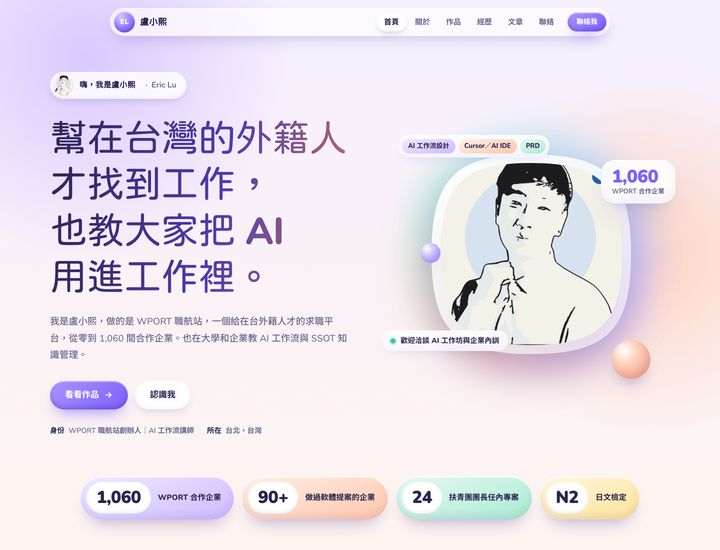
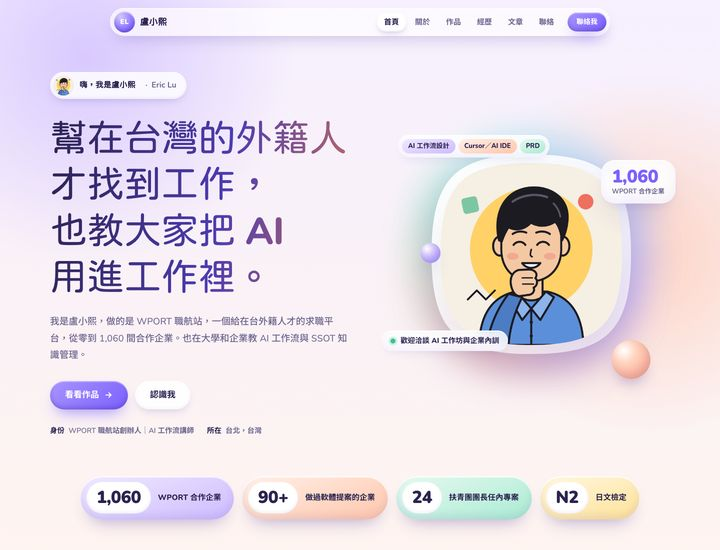
astro 範本：10 種風格拉開差異（瑞士海報、像素冒險、液態玻璃、復古桌面、藍染雜誌、紙本履歷），更新預覽與 README

Changed region(s): [[0.6111, 0.2782, 0.825, 0.6491], [0.0611, 0.1236, 0.1222, 0.1855], [0.825, 0.3091, 0.8556, 0.34]]

diff --git a/templates/website/astro/README.md b/templates/website/astro/README.md
@@ -14,10 +14,10 @@
 
 | | | |
 |---|---|---|
-| ![](previews/01-editorial.jpg)<br>**01-editorial** 瑞士編輯：超大字、網格、紅色編號 | ![](previews/02-bento.jpg)<br>**02-bento** Apple 產品頁：筆電外框、捲動放大 | ![](previews/03-minimal.jpg)<br>**03-minimal** 極簡索引：大字作品索引、滑過浮出截圖 |
-| ![](previews/04-aurora.jpg)<br>**04-aurora** 極光暗色：流動極光、毛玻璃 | ![](previews/05-brutal.jpg)<br>**05-brutal** 新粗獷：色塊、可拖的貼紙 | ![](previews/06-terminal.jpg)<br>**06-terminal** 開發者終端：⌘K 指令面板、打字開場 |
-| ![](previews/07-magazine.jpg)<br>**07-magazine** 文藝雜誌：直排標題、印章、圖說 | ![](previews/08-studio.jpg)<br>**08-studio** 作品集工作室：左側欄、大圖展開 | ![](previews/09-soft.jpg)<br>**09-soft** 柔和黏土：粉嫩、Q 彈互動 |
-| ![](previews/10-cv.jpg)<br>**10-cv** 履歷 CV：單欄精排、可列印 |  |  |
+| ![](previews/01-editorial.jpg)<br>**01-editorial** 瑞士海報：滿版紅、黑白交替、超大字 | ![](previews/02-bento.jpg)<br>**02-bento** Apple 產品頁：白灰、筆電外框、捲動放大 | ![](previews/03-minimal.jpg)<br>**03-minimal** 像素冒險：深藍星空、角色卡、任務卡 |
+| ![](previews/04-aurora.jpg)<br>**04-aurora** 液態玻璃：繽紛漸層、毛玻璃面板 | ![](previews/05-brutal.jpg)<br>**05-brutal** 新粗獷：米底、色塊、可拖的貼紙 | ![](previews/06-terminal.jpg)<br>**06-terminal** 復古桌面：綠松石桌面、可拖的灰視窗 |
+| ![](previews/07-magazine.jpg)<br>**07-magazine** 藍染雜誌：深靛藍、直排、印章 | ![](previews/08-studio.jpg)<br>**08-studio** 作品集工作室：暖黑＋螢光、大圖展開 | ![](previews/09-soft.jpg)<br>**09-soft** 柔和黏土：粉嫩、Q 彈互動 |
+| ![](previews/10-cv.jpg)<br>**10-cv** 紙本履歷：永遠淺色、襯線、可列印 |  |  |
 
 自己的內容換好之後跑 `npm run themes`，會用**你的內容**做出 10 種版本給你比較。
 

diff --git a/CHANGELOG.md b/CHANGELOG.md
@@ -11,6 +11,8 @@
 - 每種風格都設計了「沒有照片」的版面（`npm run shoot -- <編號> --no-images` 檢查）。
 - 新工具 `npm run shoot -- <編號>`：建置一個風格並把每一頁截圖（桌機＋手機）。
 - 移除舊的共用骨架 `src/legacy`。
+- 10 種風格拉開差異：01 瑞士海報（滿版紅）、03 像素冒險、04 液態玻璃、06 復古桌面、07 藍染雜誌、10 永遠淺色的紙本履歷；每個風格有自己的 favicon（名字第一個字＋風格配色）。
+- 範例人物盧小熙的照片改成手繪向量插畫（線條＋大色塊）。
 
 ## 2026-11-23　個人網站 Astro 版：10 種風格、多頁、聯絡表單
 
